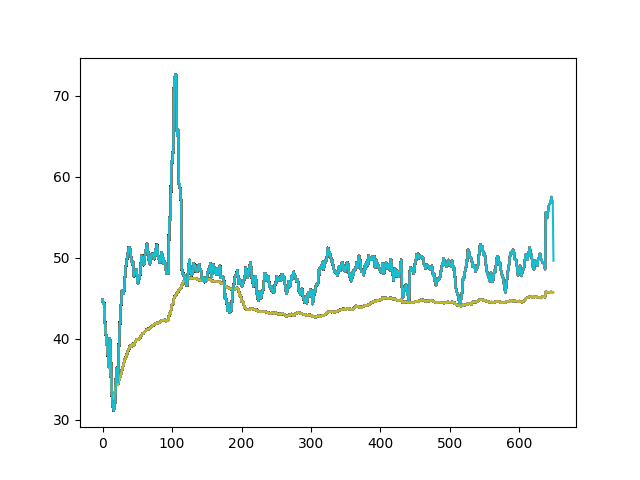
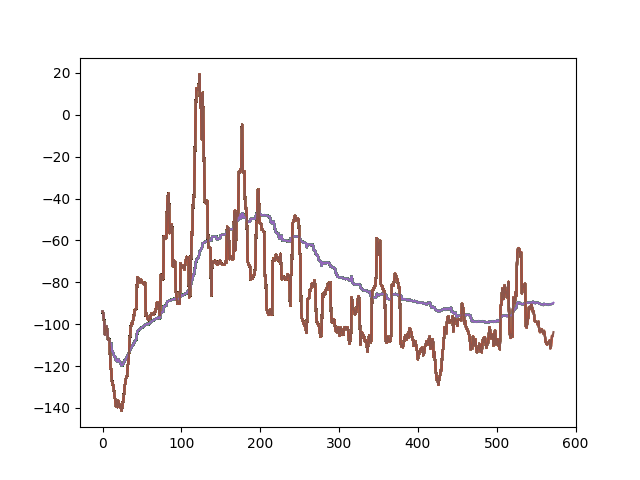
added doouble DQN and is doing better but still not too consistent

diff --git a/DQAgent.py b/DQAgent.py
@@ -83,15 +83,26 @@ class DQAgent:
             return
         self.trainTime = 10
         batch = random.sample(self.memory, self.sampleSize)
-        states = np.array([b[0] for b in batch]).reshape((self.sampleSize, *self.inputShape))
-        currTargets = self.actionModel.predict(states, verbose=0, batch_size=self.sampleSize)
-        nextTargets = self.targetModel.predict(np.array([b[3] for b in batch]).reshape((self.sampleSize, *self.inputShape)), verbose=0, batch_size=self.sampleSize)
 
-        for i, (state, action, reward, nextState, done) in enumerate(batch):
-            if done:
-                currTargets[i][action] = reward
+        states      = np.vstack([exp[0] for exp in batch])           # shape: (batch, H, W, C)
+        actions     = np.array([exp[1] for exp in batch])            # shape: (batch,)
+        rewards     = np.array([exp[2] for exp in batch])            # shape: (batch,)
+        next_states = np.vstack([exp[3] for exp in batch])           # shape: (batch, H, W, C)
+        dones       = np.array([exp[4] for exp in batch])            # shape: (batch,)
+
+        q_next_online = self.actionModel.predict(next_states,  verbose=0)  # shape: (batch, n_actions)
+        q_next_target = self.targetModel.predict(next_states,  verbose=0)  # shape: (batch, n_actions)
+
+        q_current = self.actionModel.predict(states, verbose=0)
+
+        for i in range(self.sampleSize):
+            if dones[i]:
+                q_current[i, actions[i]] = rewards[i]
             else:
-                currTargets[i][action] = reward + self.gamma * np.max(nextTargets[i])
-        self.actionModel.fit(states, currTargets, epochs=1, verbose=0, batch_size=self.sampleSize)
+                best_next_action = np.argmax(q_next_online[i])                 # select via online net
+                target_q_value   = q_next_target[i, best_next_action]          # evaluate via target net
+                q_current[i, actions[i]] = rewards[i] + self.gamma * target_q_value
+
+        self.actionModel.fit(states, q_current, epochs=1, batch_size=self.sampleSize, verbose=0)
         self.updateTargetModel()
 